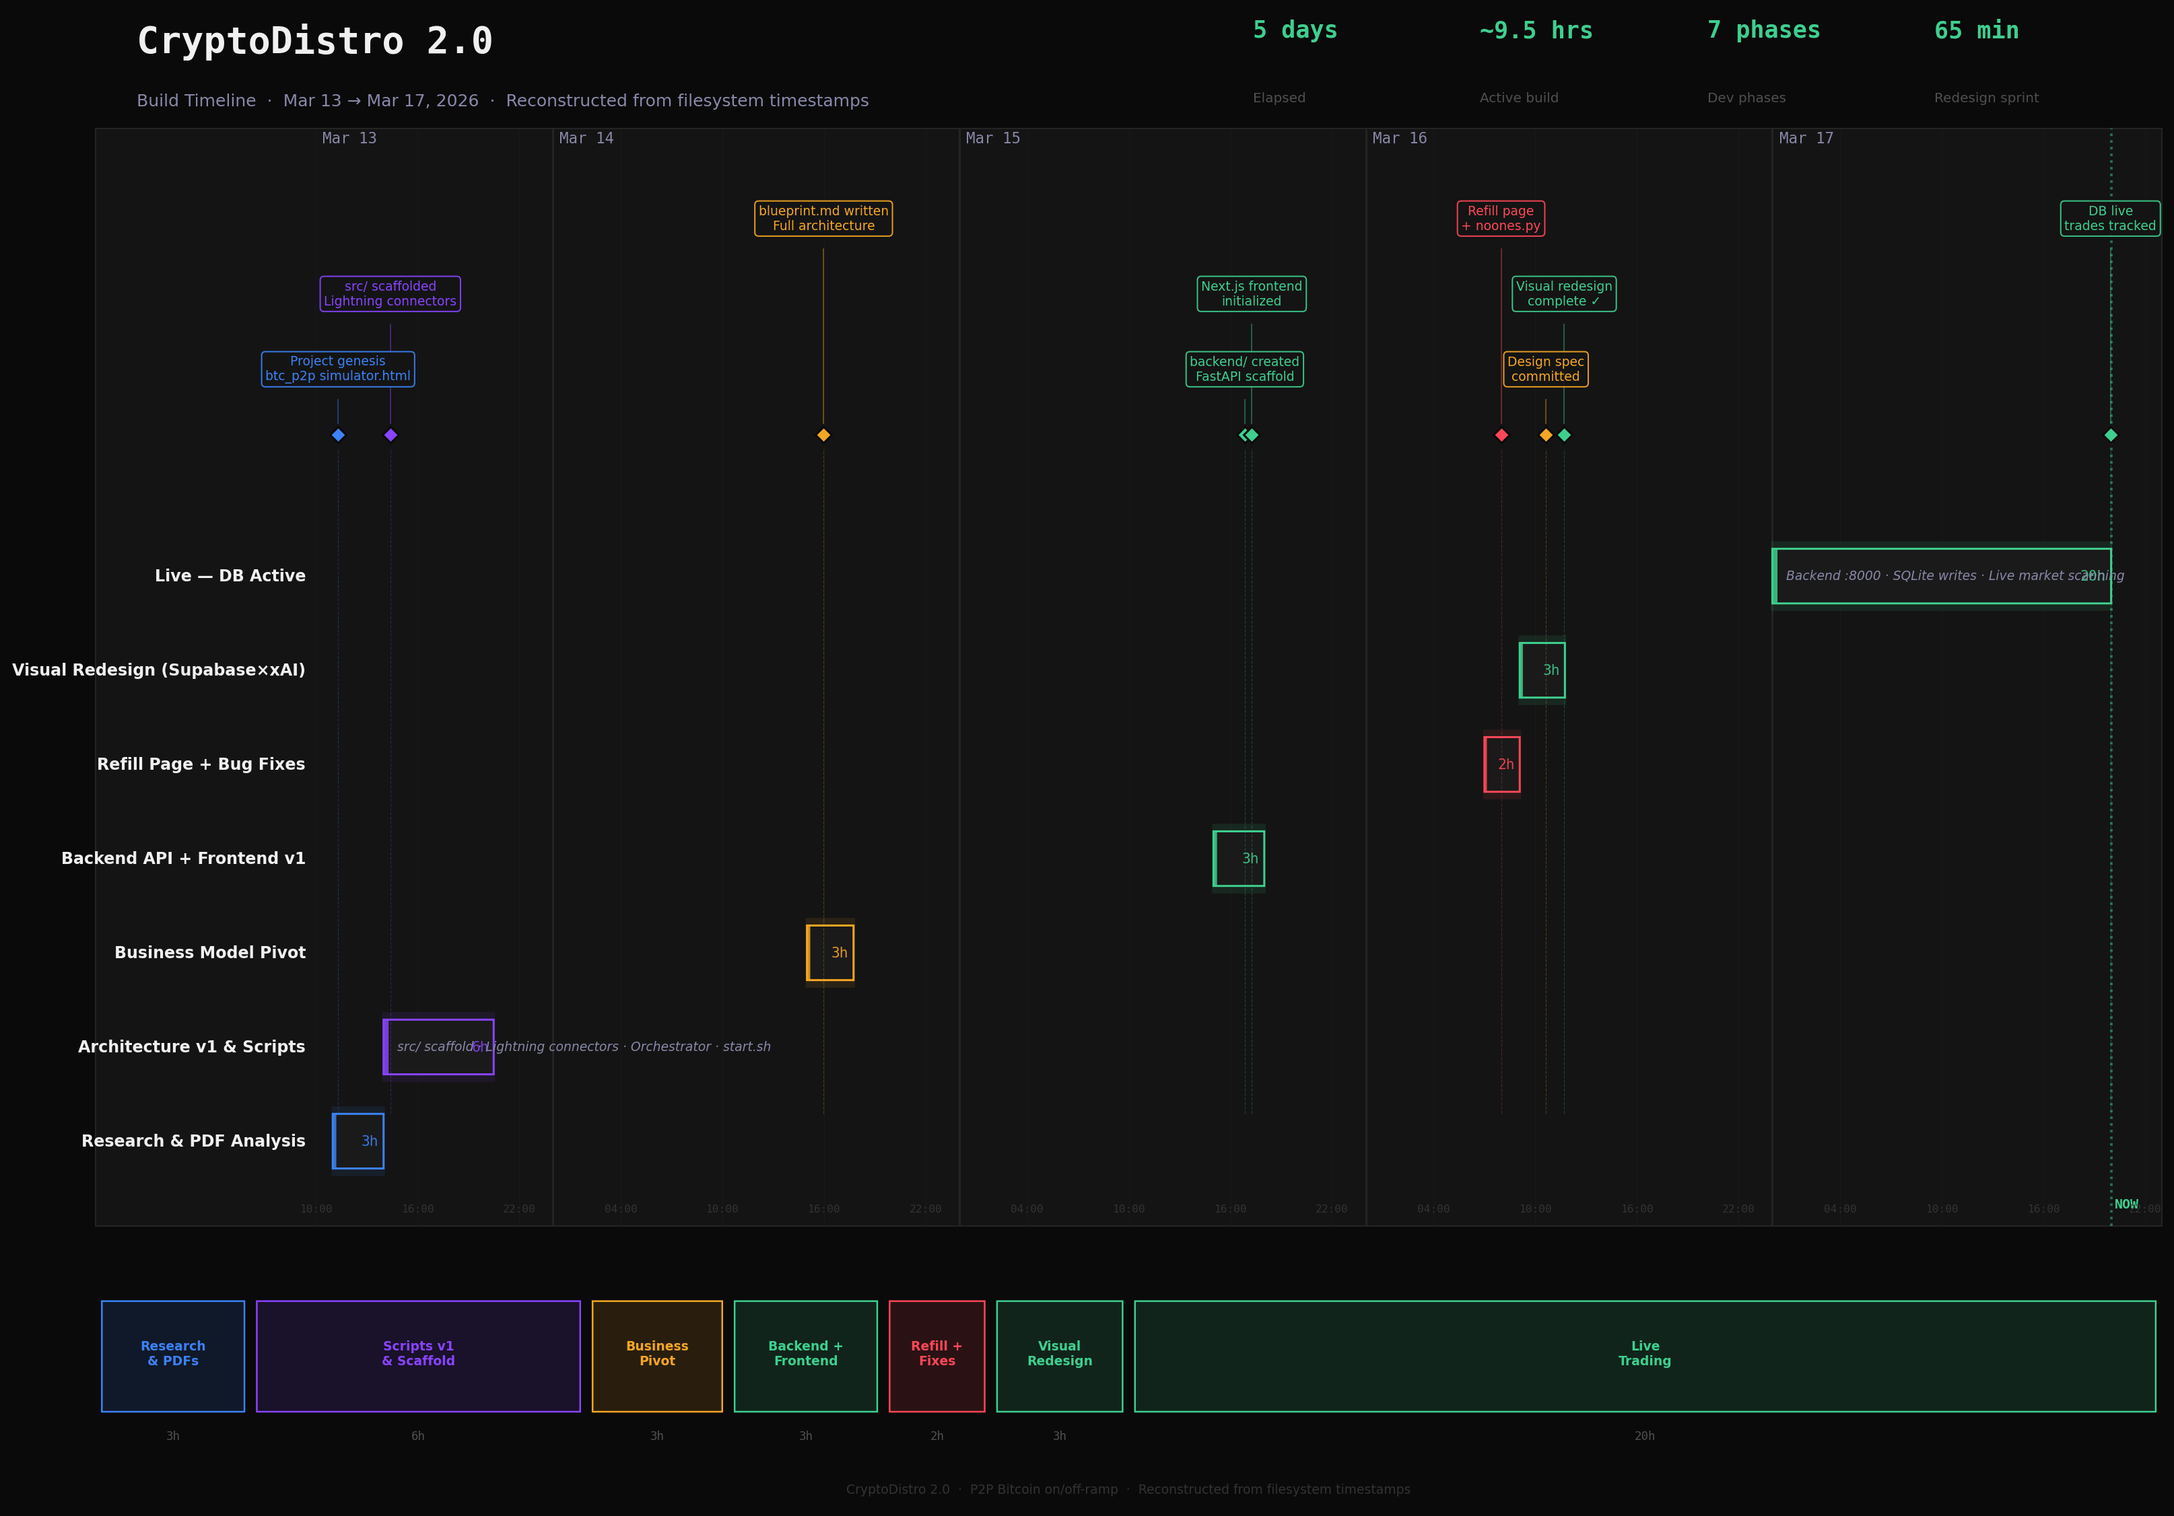
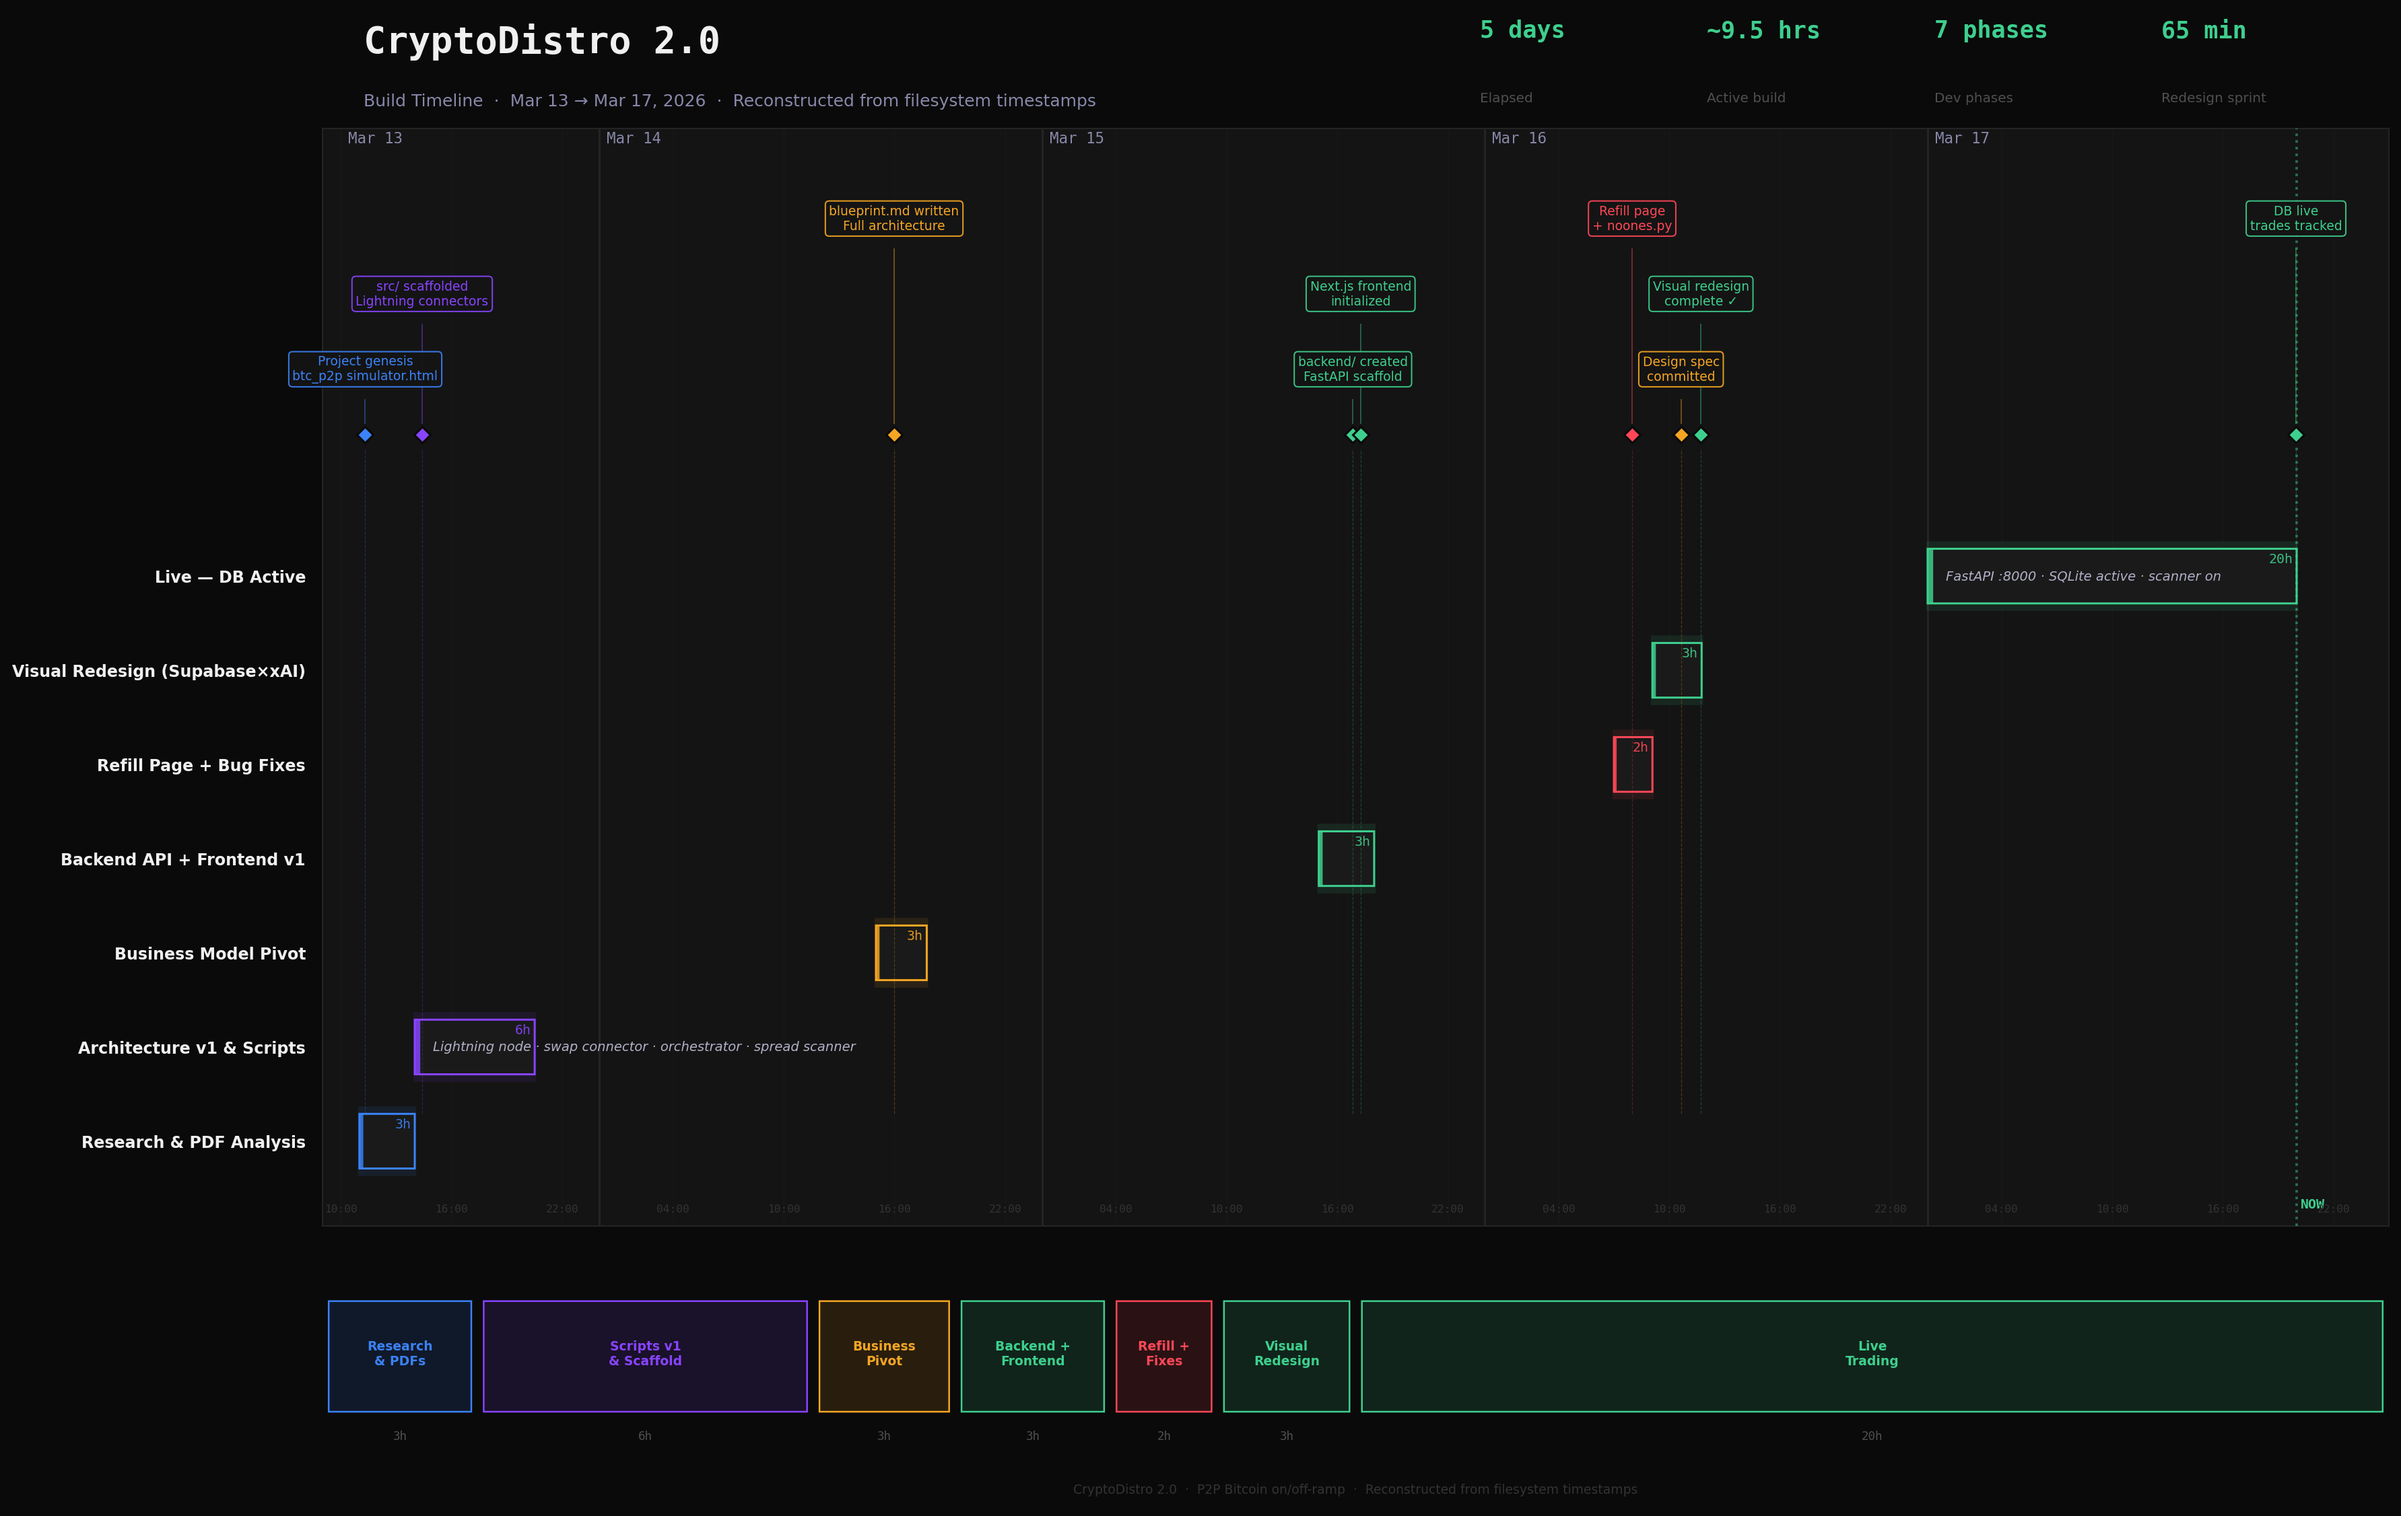
style(timeline): move duration label to top-right corner of bar, prevents overlap with description text on narrow-with phases

diff --git a/timeline.py b/timeline.py
@@ -30,12 +30,12 @@ TEXT_SEC = '#8888aa'
 # ── Phase data ─────────────────────────────────────────────────────────────────
 PHASES = [
     ("Research & PDF Analysis",        datetime(2026,3,13,11, 0), datetime(2026,3,13,14, 0), BLUE,   "Grok AI report · P2P trading overview · First simulator HTML"),
-    ("Architecture v1 & Scripts",      datetime(2026,3,13,14, 0), datetime(2026,3,13,20,30), PURPLE, "src/ scaffold · Lightning connectors · Orchestrator · start.sh"),
+    ("Architecture v1 & Scripts",      datetime(2026,3,13,14, 0), datetime(2026,3,13,20,30), PURPLE, "Lightning node · swap connector · orchestrator · spread scanner"),
     ("Business Model Pivot",           datetime(2026,3,14,15, 0), datetime(2026,3,14,17,45), ORANGE, "Emerging markets research · blueprint.md · Binance + FX connectors"),
     ("Backend API + Frontend v1",      datetime(2026,3,15,15, 0), datetime(2026,3,15,18, 0), GREEN,  "FastAPI · Next.js 14 · WebSocket hooks · All 5 pages built"),
     ("Refill Page + Bug Fixes",        datetime(2026,3,16, 7, 0), datetime(2026,3,16, 9, 5), RED,    "refill/page.tsx · Noones connector · Schema fixes"),
     ("Visual Redesign (Supabase×xAI)", datetime(2026,3,16, 9, 5), datetime(2026,3,16,11,45), GREEN,  "Brainstorm → spec → plan → 9 tasks executed in 65 min"),
-    ("Live — DB Active",               datetime(2026,3,17, 0, 0), datetime(2026,3,17,20, 0), GREEN,  "Backend :8000 · SQLite writes · Live market scanning"),
+    ("Live — DB Active",               datetime(2026,3,17, 0, 0), datetime(2026,3,17,20, 0), GREEN,  "FastAPI :8000 · SQLite active · scanner on"),
 ]
 
 # ── Milestone data ─────────────────────────────────────────────────────────────
@@ -137,22 +137,23 @@ for i, (label, start, end, color, desc) in enumerate(PHASES):
     ax.add_patch(FancyBboxPatch((x0, y-BAR_H/2), min(0.3, dw*0.07), BAR_H,
         boxstyle="round,pad=0", linewidth=0, facecolor=color, alpha=0.85, zorder=4))
 
-    # Duration inside bar
+    # Duration label — top-right corner of bar, clear of description text
     if dur_h >= 1.0:
         dur_txt = f"{dur_h:.0f}h" if dur_h < 24 else f"{dur_h/24:.0f}d"
-        ax.text(x0 + dw - 0.3, y, dur_txt,
-                fontsize=8.5, color=color, fontfamily='monospace',
-                ha='right', va='center', zorder=5, alpha=0.9)
+        ax.text(x0 + dw - 0.2, y + BAR_H/2 - 0.04, dur_txt,
+                fontsize=8, color=color, fontfamily='monospace',
+                ha='right', va='top', zorder=6, alpha=0.9)
 
-    # Phase name — left side
-    ax.text(-0.6, y, label,
-            fontsize=9.5, color=TEXT_PRI, ha='right', va='center', fontweight='bold')
+    # Phase name drawn via ytick labels below — skip inline text
 
     # One-line description inside bar (only if bar is wide enough)
     if dw > 3.0:
-        ax.text(x0 + min(0.5, dw*0.08) + 0.3, y, desc,
-                fontsize=7.5, color=TEXT_SEC, ha='left', va='center',
-                style='italic', zorder=5, clip_on=True)
+        txt_x = x0 + min(0.5, dw*0.08) + 0.5
+        # For the rightmost bar, anchor text from left with hard right clip
+        ax.text(txt_x, y, desc,
+                fontsize=7.8, color='#b0b0c8', ha='left', va='center',
+                style='italic', zorder=5, clip_on=True,
+                wrap=False)
 
 # ── Milestones — staggered labels ──────────────────────────────────────────────
 base_y = len(PHASES) + 0.5
@@ -193,9 +194,13 @@ for h in range(0, int(TOTAL_HRS)+1, 6):
     ax.text(h, -0.75, t.strftime('%H:%M'), fontsize=6.5,
             color=TEXT_DIM, ha='center', fontfamily='monospace')
 
-ax.set_xlim(-13, TOTAL_HRS + 1)
+ax.set_xlim(-1, TOTAL_HRS + 3)
 ax.set_ylim(-0.9, len(PHASES) + LEVEL_OFFSETS[-1] + 1.6)
-ax.set_yticks([])
+# Y-axis tick labels — proper matplotlib way, sits outside the grey box
+ax.set_yticks(range(len(PHASES)))
+ax.set_yticklabels([p[0] for p in PHASES],
+                   fontsize=9.5, color=TEXT_PRI, fontweight='bold')
+ax.tick_params(axis='y', length=0, pad=10, colors=TEXT_PRI)
 ax.set_xticks([])
 
 # ─ Summary bar ────────────────────────────────────────────────────────────────
